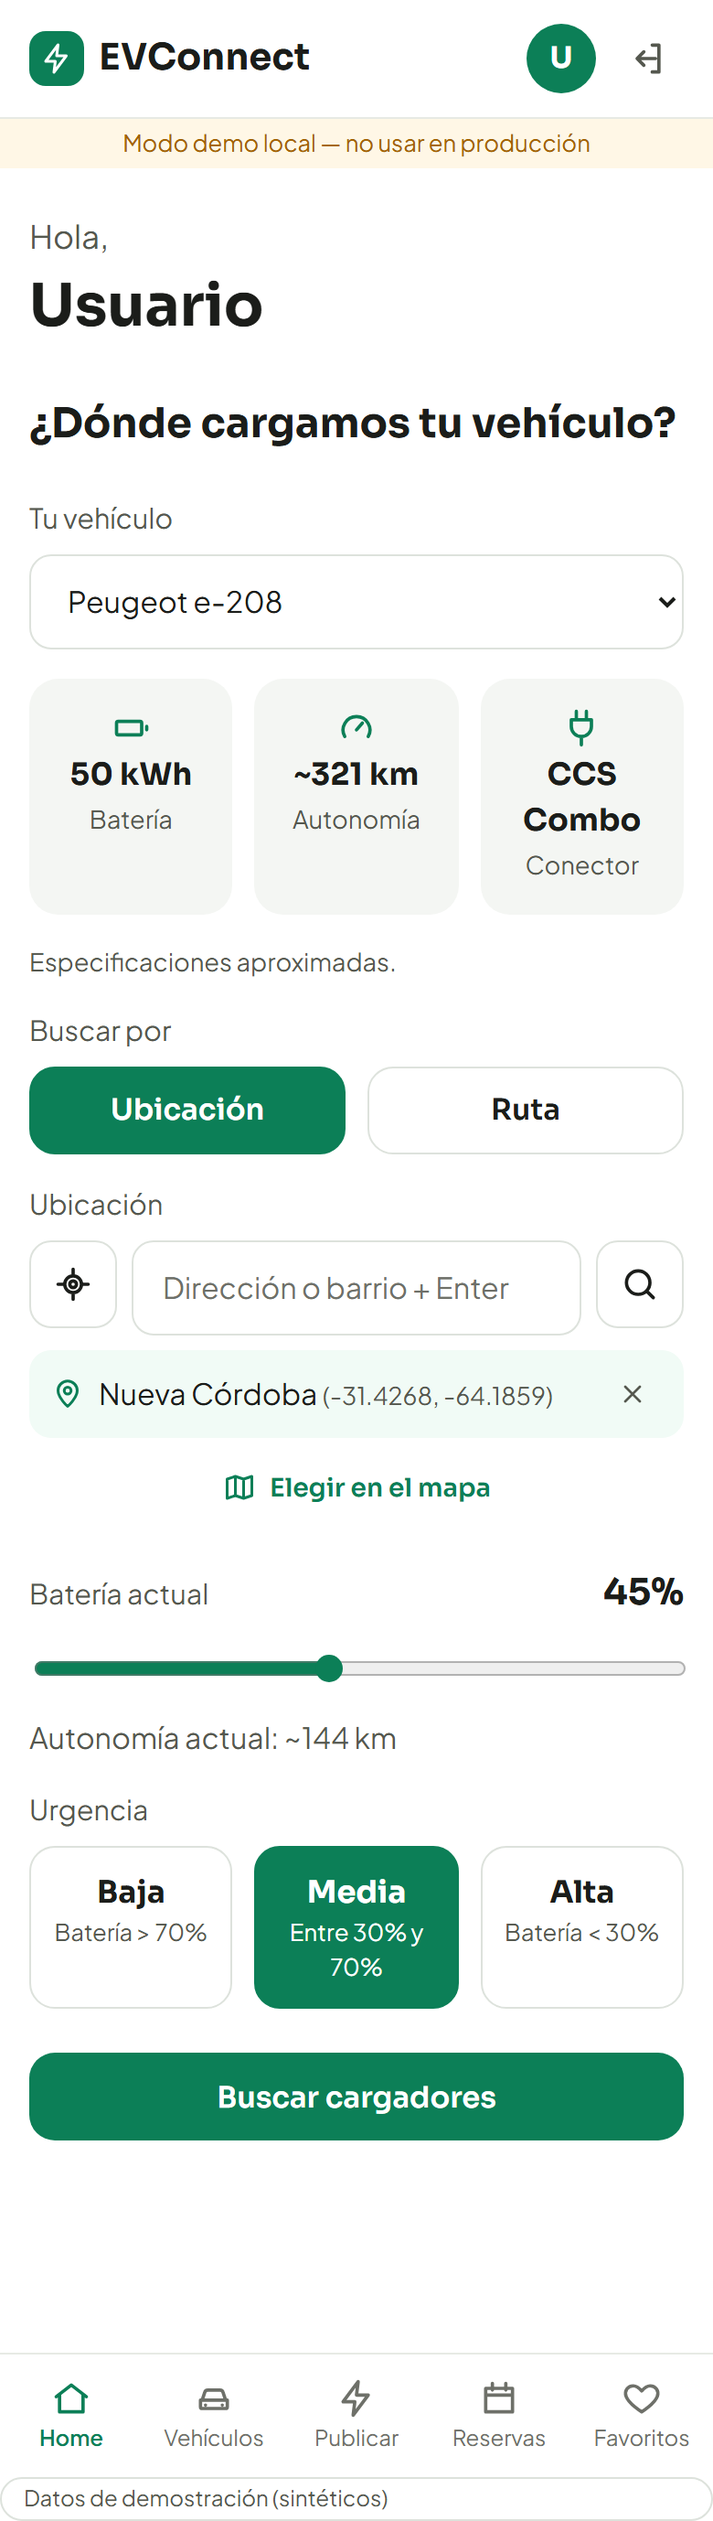
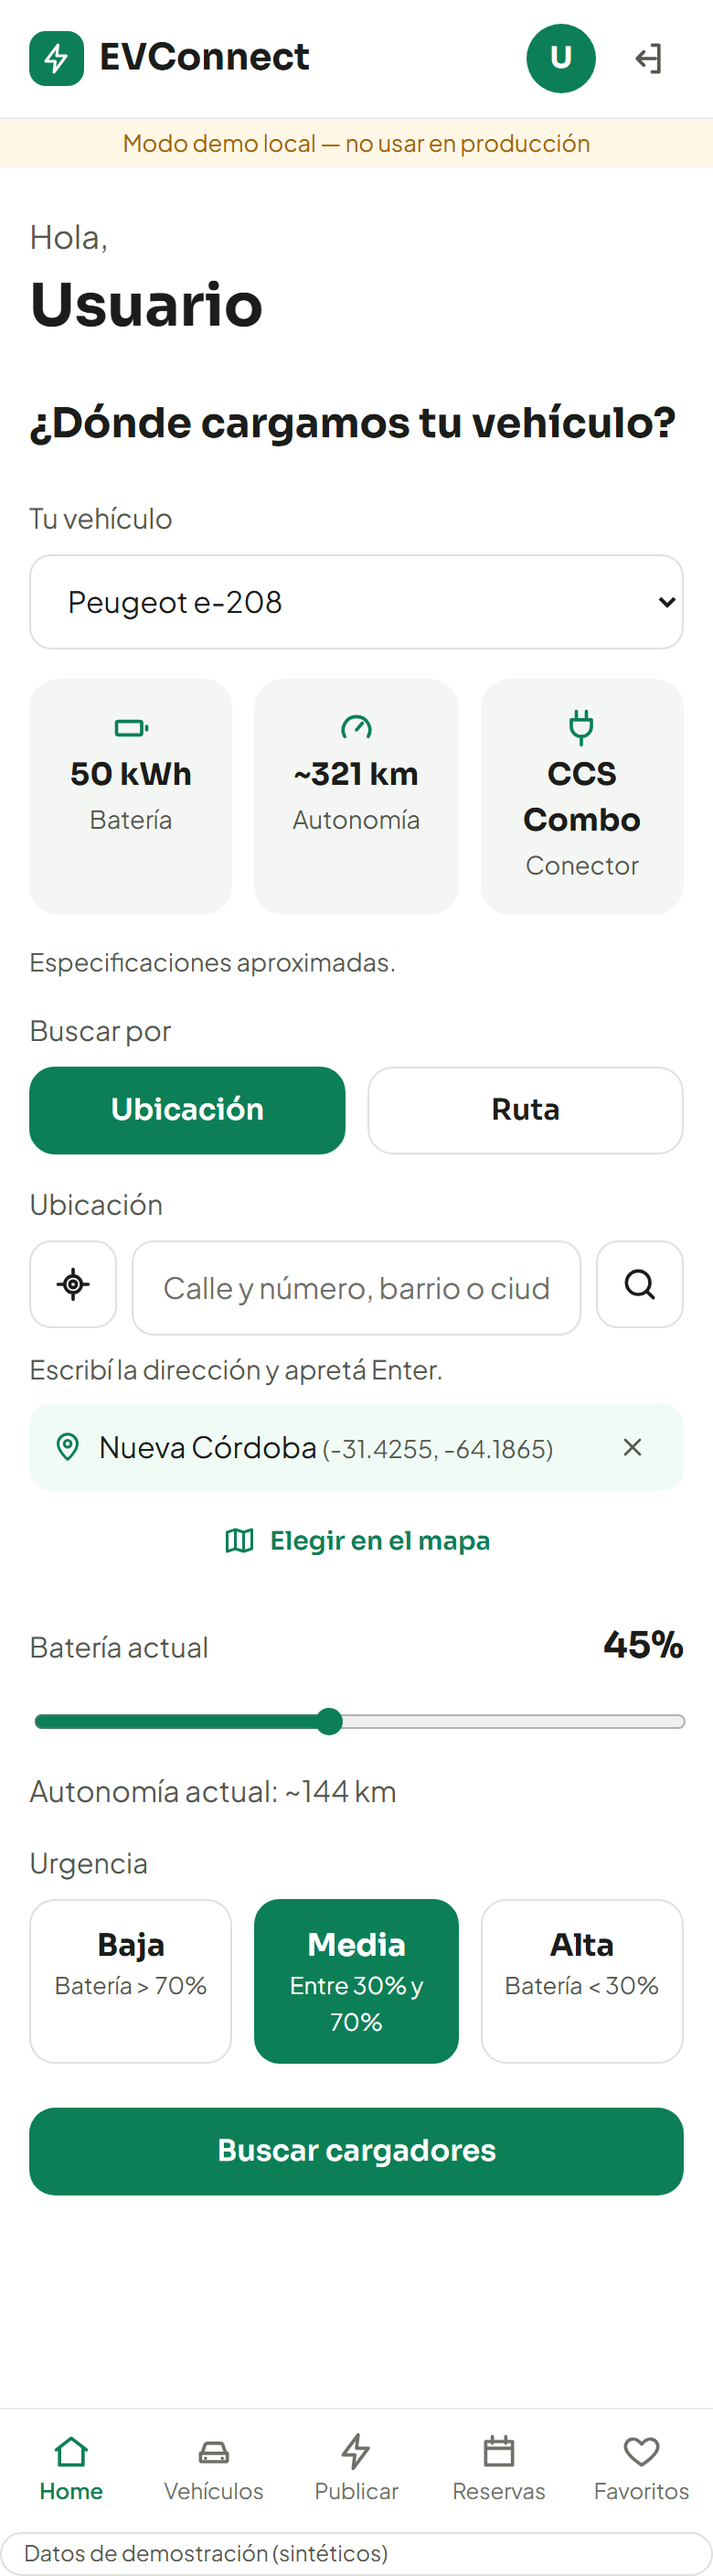
docs: capturas del nuevo flujo y decisiones D-042 y D-043

diff --git a/docs/DECISIONES.md b/docs/DECISIONES.md
@@ -377,3 +377,25 @@ Hay que informar estos resultados tal como salen, con la semilla y la cantidad d
 - **Interfaz:** `GET /api/v1/configuracion` (público, sin secretos) informa los proveedores activos. Con eso, el campo dice "Calle y número, barrio o ciudad" (Nominatim) o "Barrio o ciudad" (lista fija), con mensajes específicos cuando no hay resultados y la atribución de OpenStreetMap junto a los resultados.
 - **Política de uso:** se mantiene: 1 pedido por segundo (los dos pasos también), `User-Agent` propio, caché de 24 horas y búsqueda solo al confirmar (sin autocompletado). Para apagarlo, `GEOCODING_PROVIDER=static`.
 - **Limitación:** la precisión depende de los datos de OpenStreetMap. Hay calles sin numeración cargada, y para otras ciudades conviene escribir la ciudad ("San Martín 100, Rosario").
+
+## 2026-11-06 — El mapa como vista principal de resultados (pedido del autor)
+
+### D-042 · Después de buscar se muestra el mapa
+- **Decisión:** al buscar se abre `/resultados/mapa`. La lista (`/resultados`) queda a un toque con el botón de lista. Las rutas de SPEC §10.2 no cambian; solo cuál se muestra primero.
+- **Motivo:** el mapa ayuda a orientarse y es la información principal de una búsqueda de cargadores. Funciona bien en móvil (hoja inferior) y en escritorio (panel lateral).
+- **Cambios:**
+  - La hoja del mapa incorpora todo lo que antes solo tenía la lista: resumen (vehículo, batería, urgencia y autonomía), avisos, "Guardar esta ruta", motivo cuando no hay resultados y cargadores descartados. Son componentes compartidos (`components/Resultados/InfoBusqueda.tsx`).
+  - "Volver" desde el detalle regresa a la vista de la que se vino. Si se entró por un enlace directo, va al mapa.
+  - Cambiar entre mapa y lista reemplaza la entrada del historial, para no acumular idas y vueltas.
+  - Título de página para lectores de pantalla en la vista de mapa.
+  - En escritorio, la barra flotante va solo sobre el mapa.
+  - Los controles de zoom quedan por encima del aviso de datos sintéticos.
+- **Capturas:** el script recorre el nuevo flujo (`04-resultados-mapa`, `05-resultados-lista`, `15-ruta-mapa`, `16-resultados-ruta-lista` y `17b-ruta-mapa-escritorio`).
+
+### D-043 · Ajuste de la búsqueda de lugares (complementa D-041)
+- La búsqueda **local acotada** (`bounded=1`) se usa solo cuando lo escrito tiene un número, es decir, una dirección.
+- Para barrios y ciudades se busca en todo el país, **priorizando** lo cercano (`bounded=0`). Con la búsqueda local, "Villa Carlos Paz" devolvía primero la calle "Variante Carlos Paz" de Córdoba.
+- Verificado con consultas reales:
+  - "Villa Carlos Paz" devuelve la ciudad y "Nueva Córdoba" el barrio.
+  - "Colón 1234" devuelve Avenida Colón 1234 de Córdoba.
+  - "General Paz 100" devuelve la de Córdoba capital.
